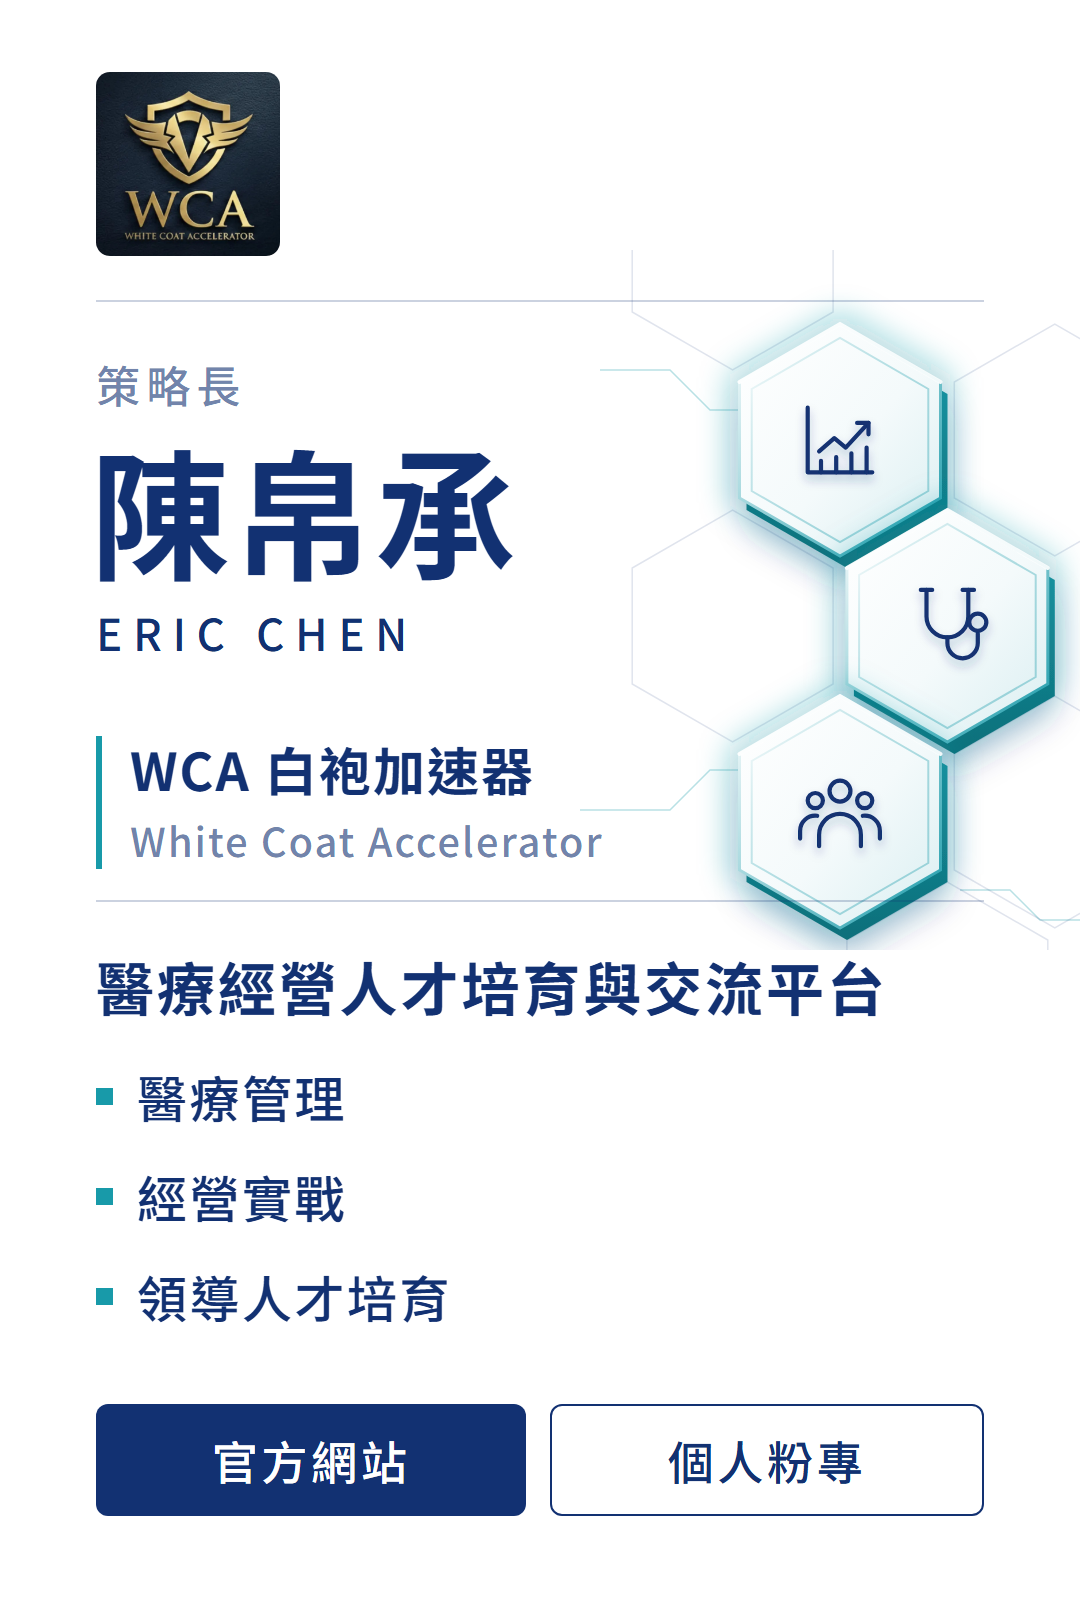
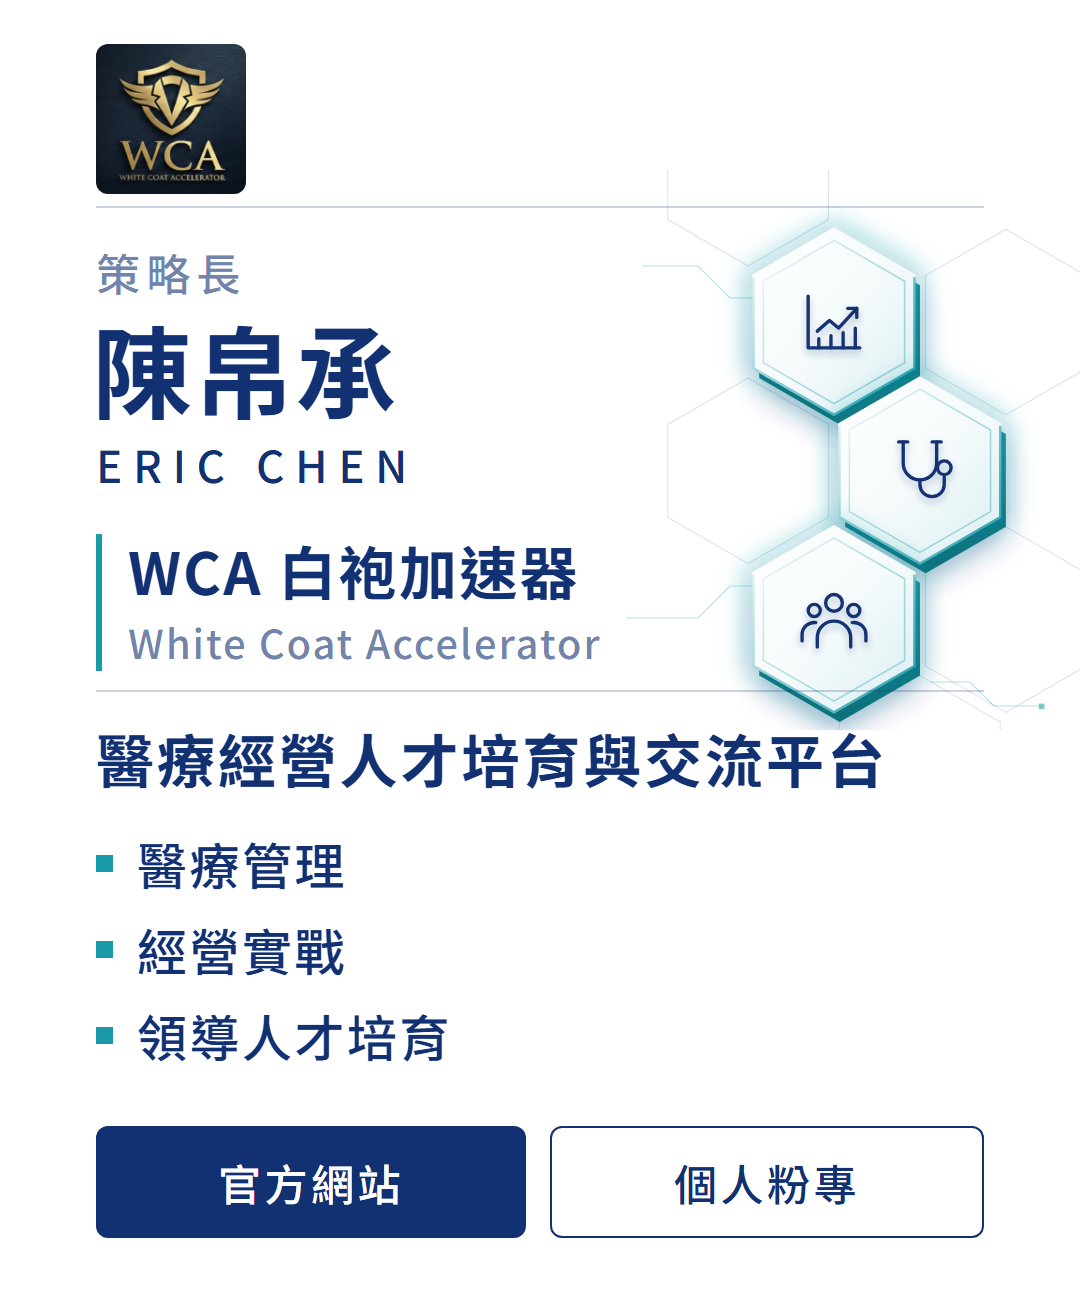
Shorten cards to 1080x1120 hero, company name 58px, buttons 43px

diff --git a/index.html b/index.html
@@ -26,7 +26,7 @@
   .rail{display:flex;gap:16px;overflow-x:auto;scroll-snap-type:x mandatory;
         width:100%;padding:4px 16px 18px;scrollbar-width:none}
   .rail::-webkit-scrollbar{display:none}
-  .card{flex:0 0 min(78vw,330px);scroll-snap-align:center;border-radius:20px;overflow:hidden;
+  .card{flex:0 0 min(70vw,290px);scroll-snap-align:center;border-radius:20px;overflow:hidden;
         background:#fff;box-shadow:0 18px 46px -18px rgba(0,0,0,.65)}
   .card img{width:100%;display:block}
   .btns{display:flex;gap:10px;padding:12px}
